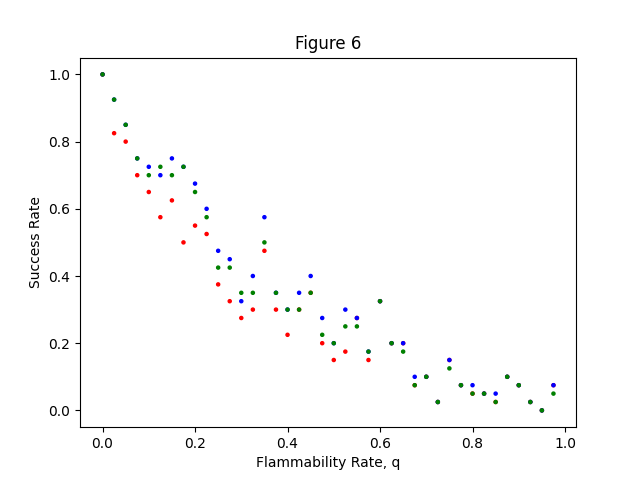
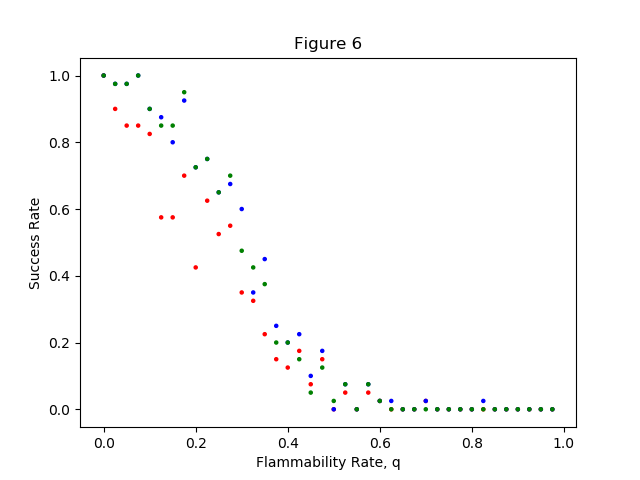
finished scorch algo. figure6 is 100 dim with scorch run once and figure6p is 50 dim with scorch run every move. scorch currently runs every move

diff --git a/util.py b/util.py
@@ -341,44 +341,29 @@ def sim_tick_maze(maze, fires, q, threshold):
     return new_maze, new_fires
 
 
-def sword(maze, s, g, h_map, fires, q):
-    """
-    Simulated Worst Outcome Risk Divination
-    Given a maze, simulates maze with worst-case fire spread and runs a*
-    on that maze. If no path in that maze, incrementally decrease fire spreading
-    chance and try again.
-    :param maze: The particular maze to check
-    :param s: Tuple of coordinates, the starting coordinate
-    :param g: Tuple of coordinates, the goal coordinate
-    :param h_map: Euclidean distances from goal
-    :param fires: Fire locations so we know where they might spread next
-    :param q: Fire flammability
-    :return: Path to get to goal in simulated maze, so it accounts for future maze
-    """
-
+def scorch(maze, s, g, h_map, fires, q):
+    '''
+    simulated circumvention of risk convergence hotspots: simulates spread of fire several times and calculates
+    chance of each cell being on fire when agent gets there. We use the word convergence since we want to know the
+    probability that the agent and fire converge on that cell at the same time; if this chance is high, we want to
+    block off this cell in a temp maze so the agent avoids it. Then keep blocking off as many dangerous cells as
+    possible until the point where blocking another dangerous cell would block all paths to goal. Finally, run a* on
+    this temp maze where the most dangerous cells are blocked.
+    :param maze: 2d list representing maze this algo will run on
+    :param s: tuple for agent location
+    :param g: tuple for goal (dim-1, dim-1)
+    :param h_map: map of euclidean distances from goal, for a* call
+    :param fires: set of fire coordinates so we can simulate their spread
+    :param q: flammability rate for fire spread that we will simulate
+    :return: shortest path to goal that avoids dangerous cells
+    '''
     for c in s + g:
         if not 0 <= c < len(maze):
             return None
     if not dfs(maze, s, g):
         return None
 
-    # iterate through thresholds: first if all threatened cells ignite next turn,
-    # then they only ignite if their prob is >= 10%, and so on
-    for i in range(0, 101, 10):
-        sim_maze, sim_fires = sim_tick_maze(maze, fires, q, i / 100.0)
-        # if s and g are safe and there is a path connecting them in sim_maze, find shortest path through it
-        if sim_maze[s[0]][s[1]] == 0 and sim_maze[g[0]][g[1]] == 0 and dfs(sim_maze, s, g):
-            return a_star(sim_maze, s, g, h_map, path=True)
-    return a_star(maze, s, g, h_map, path=True)
-
-
-def prune(maze, s, g, h_map, fires, q):
-    for c in s + g:
-        if not 0 <= c < len(maze):
-            return None
-    if not dfs(maze, s, g):
-        return None
-
+    # for each cell, find num steps it would take for agent to reach that cell (we use bfs for this)
     check_heap = []
     map = bfs(maze, s, g, distances=True)
     for (x, y) in map.keys():
@@ -386,6 +371,7 @@ def prune(maze, s, g, h_map, fires, q):
             distance = map.get((x, y))
             heapq.heappush(check_heap, (distance, (x, y)))
 
+    # simulate fire spread and calculate chance of each cell being on fire when agent arrives there
     block_heap = []
     if check_heap:
         num_trials = 100
@@ -412,6 +398,7 @@ def prune(maze, s, g, h_map, fires, q):
             prob = count / num_trials
             heapq.heappush(block_heap, (-1 * prob, (x, y)))
 
+    # in temp maze, block off most dangerous cells until we can't anymore
     temp = deepcopy(maze)
     (x, y) = (0, 0)
     while block_heap and dfs(temp, s, g):

diff --git a/main.py b/main.py
@@ -146,6 +146,7 @@ def p6_trial(dim=100, p=0.3, q=0.3, h_map=None, debug=False):
     results, nexts, deqs = [-1] * 3, [(0, 0)] * 3, [None] * 3
 
     maze = generate_maze(dim, p)
+    old_fires = None
     fires = [start_fire(maze)]
     maze[fires[0][0]][fires[0][1]] = 2
     while not dfs(maze, (0, 0), (dim - 1, dim - 1)) or not dfs(maze, (0, 0), (fires[0][0], fires[0][1])):
@@ -155,9 +156,11 @@ def p6_trial(dim=100, p=0.3, q=0.3, h_map=None, debug=False):
 
     deqs[0] = a_star(maze, nexts[0], (dim - 1, dim - 1), h_map=h_map, path=True)
     deqs[1] = a_star(maze, nexts[1], (dim - 1, dim - 1), h_map=h_map, path=True)
-    deqs[2] = prune(maze, nexts[2], (dim - 1, dim - 1), h_map, fires, q)
+    deqs[2] = scorch(maze, nexts[2], (dim - 1, dim - 1), h_map, fires, q)
     while True:
-        deqs[1] = a_star(maze, nexts[1], (dim - 1, dim - 1), h_map=h_map, path=True)
+        if old_fires != fires:
+            deqs[1] = a_star(maze, nexts[1], (dim - 1, dim - 1), h_map=h_map, path=True)
+            deqs[2] = scorch(maze, nexts[2], (dim - 1, dim - 1), h_map, fires, q)
 
         if debug:
             print_maze(maze, nexts[1])
